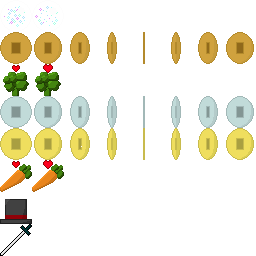
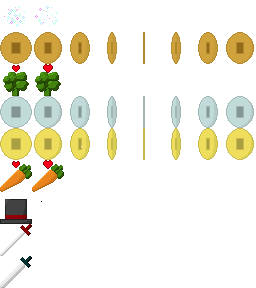
Implement the second sword.

diff --git a/cmd/mid/zone.c b/cmd/mid/zone.c
@@ -145,7 +145,7 @@ static FILE *zpipe(Rng *r)
 	Pipe p = {};
 	pipeadd(&p, "lvlgen", "-s %u 25 25 3", rngint(r));
 	pipeadd(&p, "itmgen", "-s %u 1 1", rngint(r));
-	pipeadd(&p, "itmgen", "-s %u 2 2 2 2 2 4 4 5 6 7 7 7 7 7 50", rngint(r));
+	pipeadd(&p, "itmgen", "-s %u 2 2 2 2 2 4 4 5 6 7 9 50", rngint(r));
 	pipeadd(&p, "itmgen", "-s %u 3 3 3 3 6 10", rngint(r));
 	pipeadd(&p, "envgen", "-s %u 1 1", rngint(r));
 	pipeadd(&p, "enmgen", "-s %u 1 1 1 2 2 2 2 3 3 4 5 50", rngint(r));

diff --git a/lib/mid/item.c b/lib/mid/item.c
@@ -79,6 +79,14 @@ static ItemOps ops[] = {
 		.stats = { 0, 0, 1 },
 		.loc = EqpWep
 	},
+	[ItemBroadSwd] = {
+		"Lady Sword",
+		"img/items.png",
+		silverswdupdate,
+		{ .row = 8, .len = 1, .delay = 1, .w = 32, .h = 32, .d = 1},
+		.stats = { 0, 0, 3 },
+		.loc = EqpWep
+	},
 };
 
 _Bool iteminit(Item *i, ItemID id, Point p){

diff --git a/cmd/mid/invscr.c b/cmd/mid/invscr.c
@@ -308,4 +308,10 @@ static void resetstats(Player *p){
 	for(int i = EqpHead; i < EqpMax; i++)
 		if(p->wear[i].id > 0) for(int j = 0; j < StatMax; j++)
 			p->eqp[j] += p->wear[i].stats[j];
+
+	//TODO: swd fun for this
+	if(p->wear[EqpWep].id == 0)
+		p->sw.row = 0;
+	else
+		p->sw.row = p->wear[EqpWep].id - ItemSilverSwd;
 }

diff --git a/include/mid.h b/include/mid.h
@@ -402,6 +402,7 @@ enum ItemID{
 	ItemCarrot,
 	ItemTopHat,
 	ItemSilverSwd,
+	ItemBroadSwd,
 	ItemMax
 };
 
